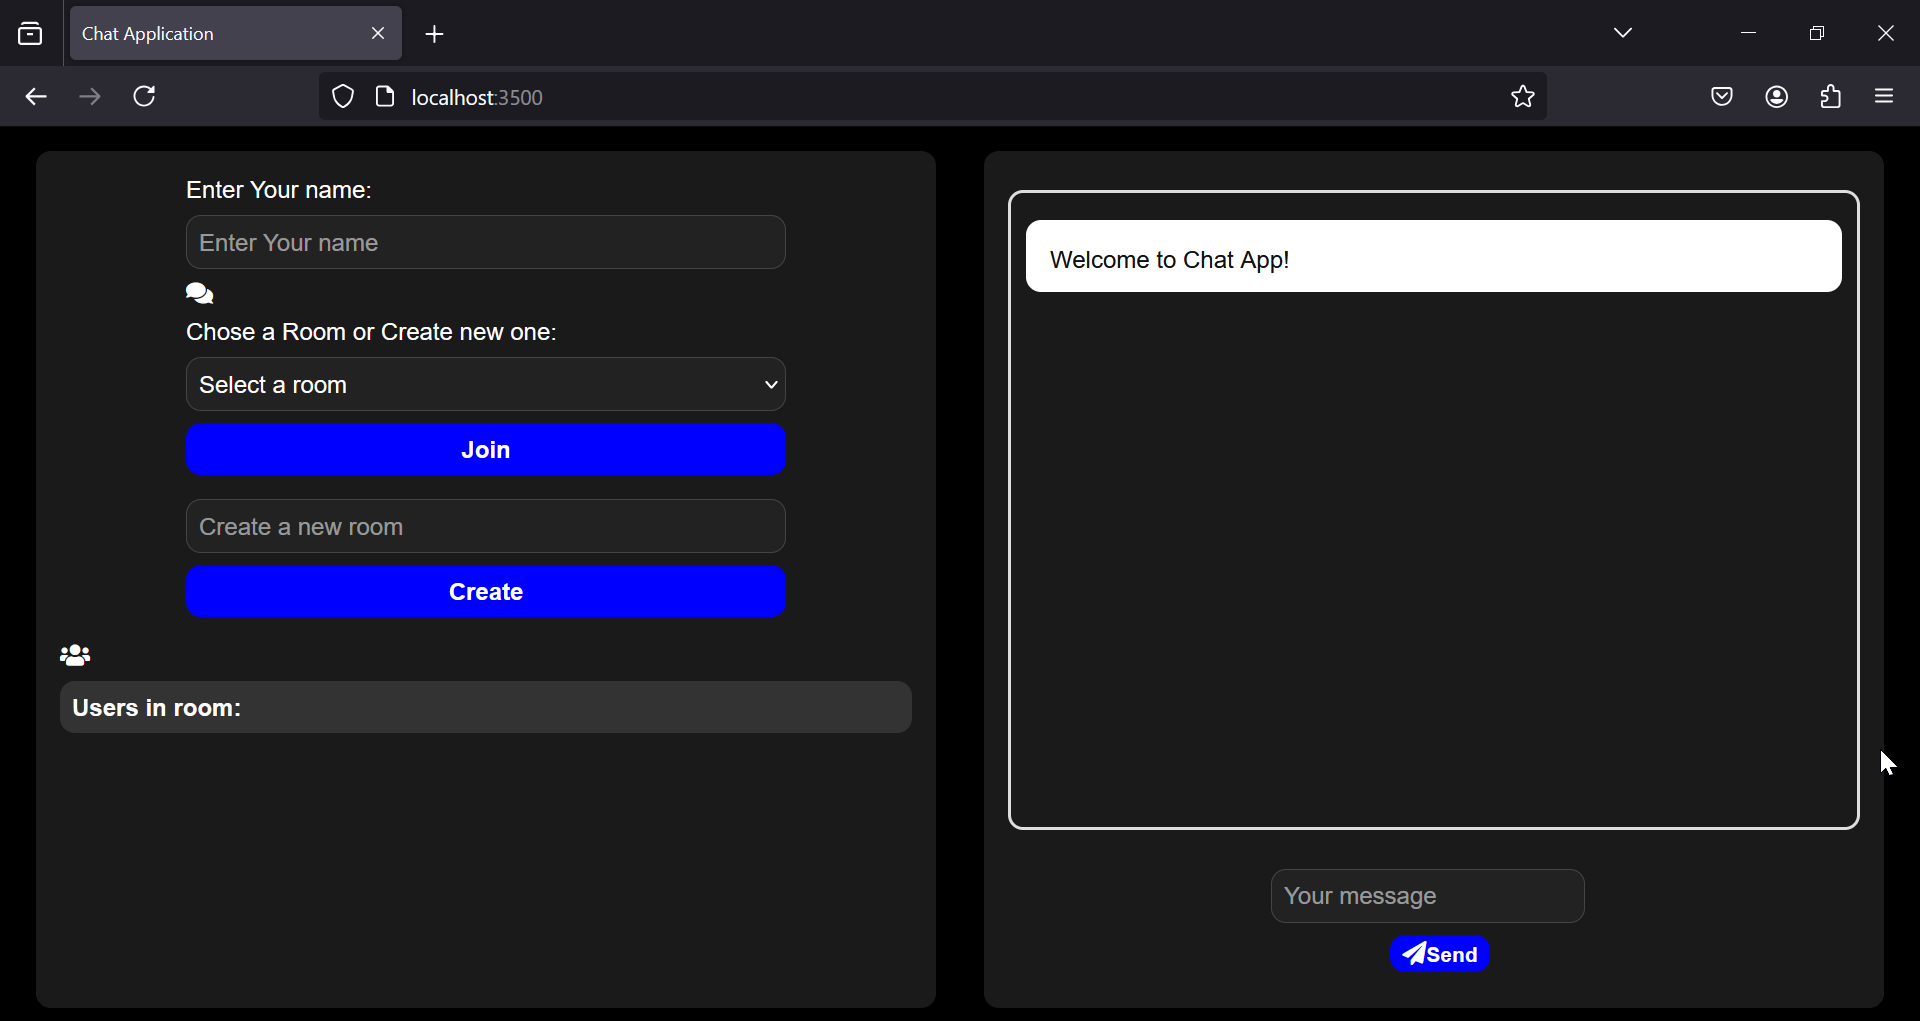
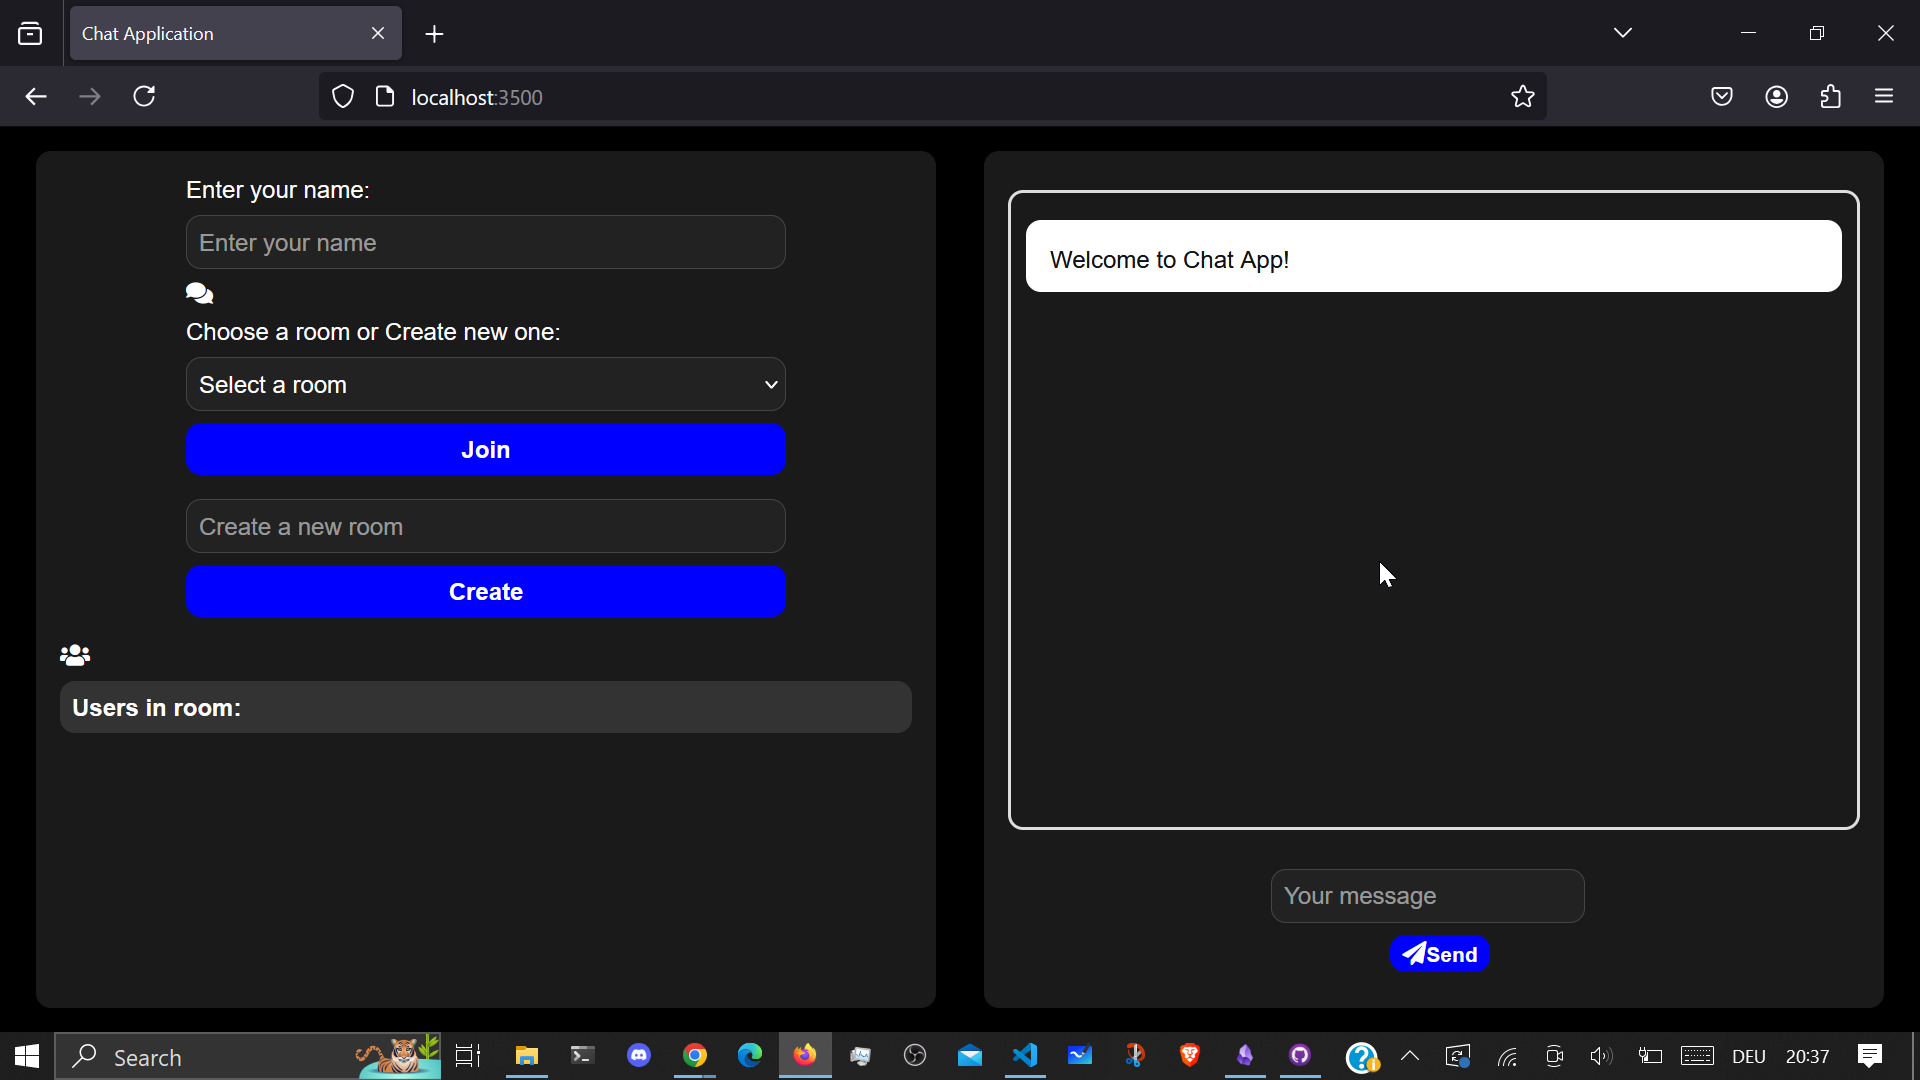
change the screenshot

diff --git a/chat-app/public/index.html b/chat-app/public/index.html
@@ -13,10 +13,10 @@
     <main>
         <div class="left-panel">
             <form class="form-join">
-                <p>Enter Your name:</p>
-                <input type="text" id="name" maxlength="8" placeholder="Enter Your name" size="5" required>
+                <p>Enter your name:</p>
+                <input type="text" id="name" maxlength="8" placeholder="Enter your name" size="5" required>
                 
-                <i class="fas fa-comments"></i> <p>Chose a Room or Create new one:</p>
+                <i class="fas fa-comments"></i> <p>Choose a room or Create new one:</p>
                 <select id="room" class="room-list"></select>
                 <button id="joinRoomBtn" type="button">Join</button>
                 <p id="error" style="color: red;"></p>
